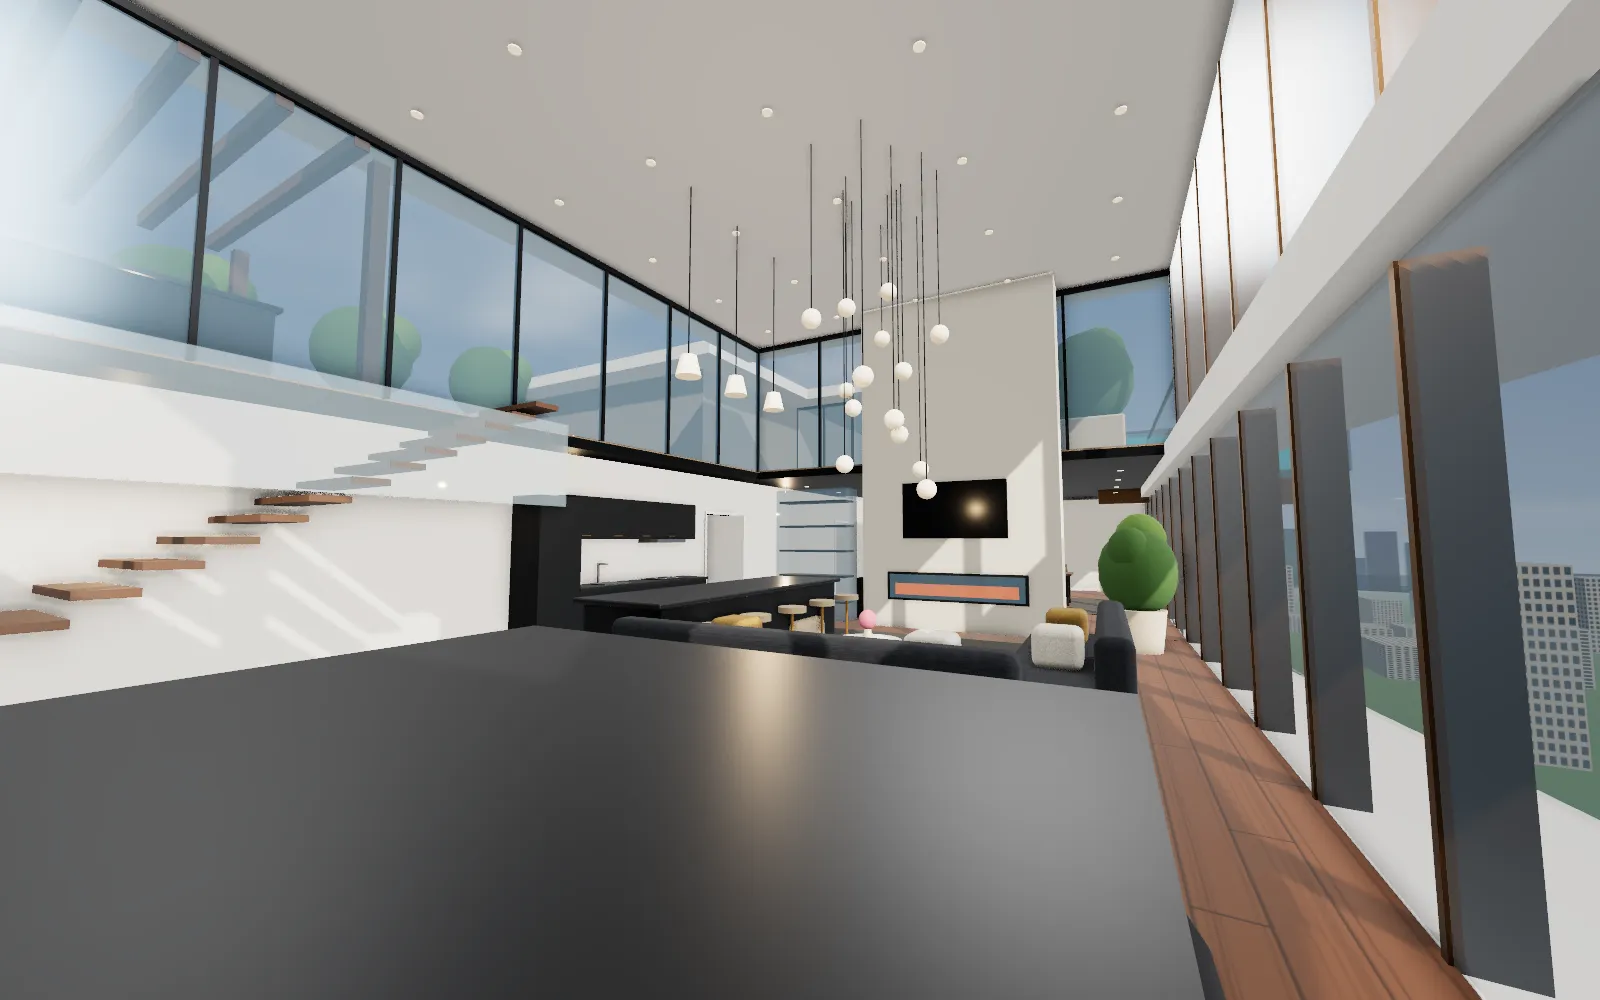
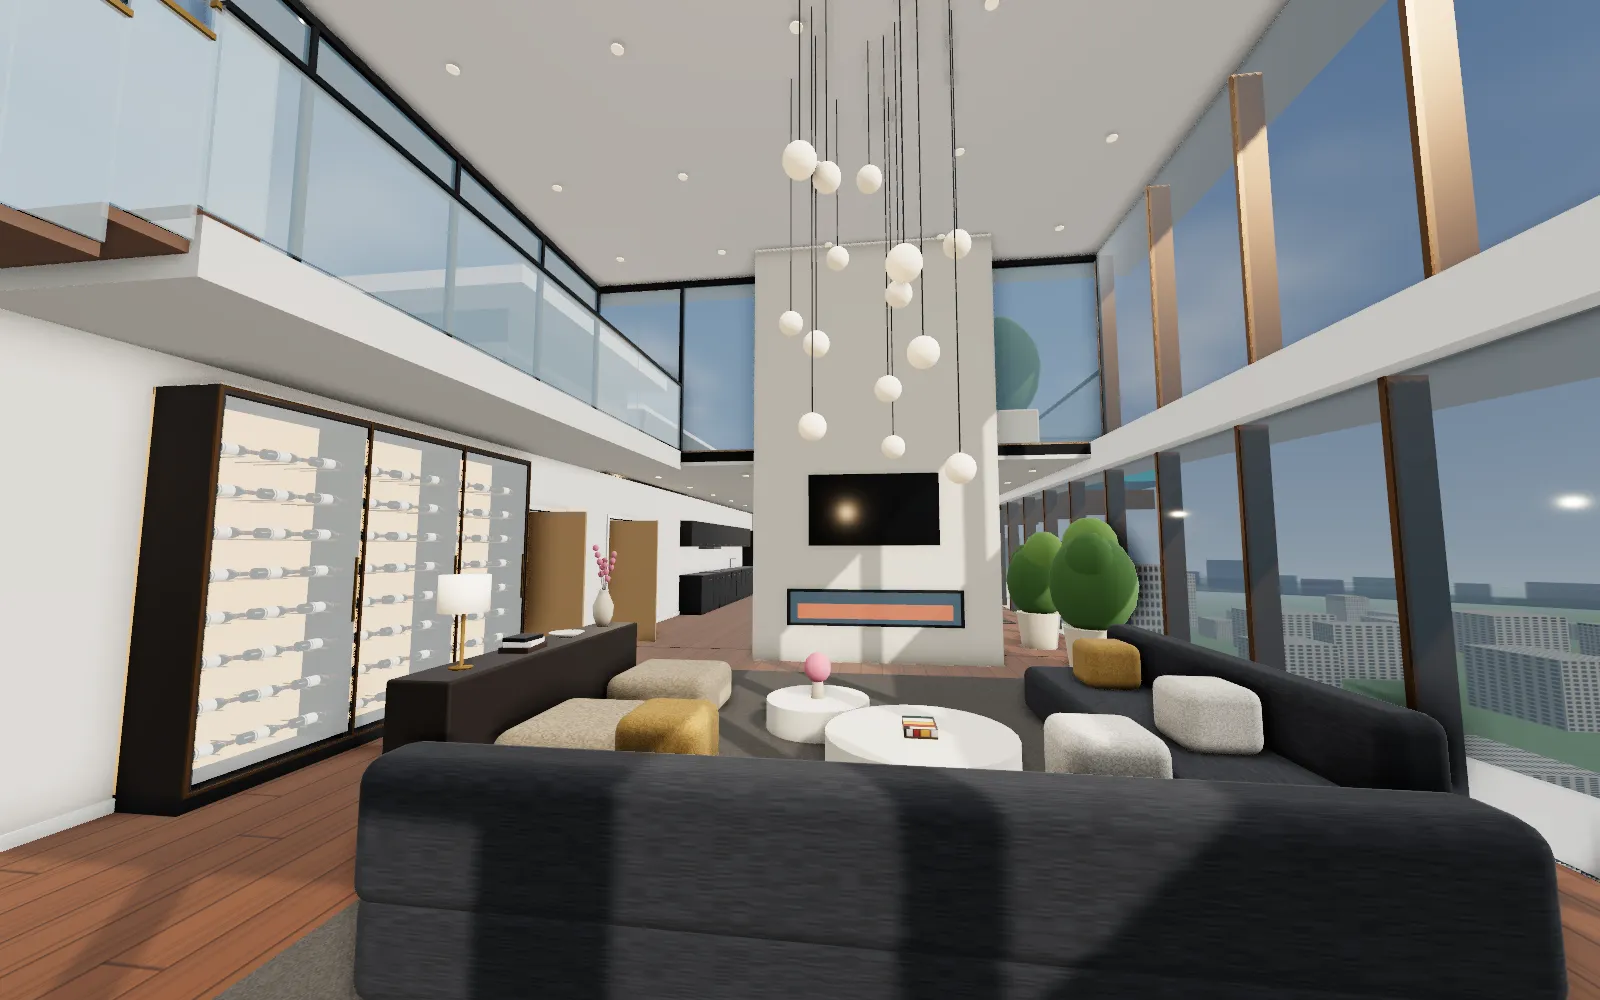
Build 20: detail pass. Bedrooms get wardrobes, dressers and chairs; principal bathroom and main bedroom furnished properly; mats and towels in bathrooms; runners and pendants in halls and corridors; lift doors on the core; lobby seating group; penthouse page pictures re-rendered
Claude-Session: https://claude.ai/code/session_01BZrB8U47Xex47gJNQ3AVwN

diff --git a/3d/engine.js b/3d/engine.js
@@ -239,7 +239,7 @@ function makeMaterials() {
     render: S('#f0ece3', { roughness: .95 }), clad: S('#fff', { map: T.clad, uv: 1.4, roughness: .8 }), plinth: S('#3a3b3d', { roughness: .9 }), stone: S('#d9d2c3'),
     spandrel: S('#22262b', { roughness: .4, metalness: .5 }), bronze: S('#7a5a3a', { roughness: .35, metalness: .85 }), brass: S('#b08a4a', { roughness: .3, metalness: .9 }),
     frame: S('#1d1f22', { roughness: .45, metalness: .6 }), door: S('#2b4a41', { roughness: .5 }), doorInt: S('#a9865c', { roughness: .5 }), rail: S('#1f2123', { roughness: .4, metalness: .7 }),
-    wood: S('#fff', { map: T.oak, uv: 2.2, roughness: .55 }), tile: S('#fff', { map: T.tile, uv: 2.4, roughness: .3 }), carpet: S('#c9bfae', { roughness: 1 }), corridor: S('#77726a', { roughness: .85 }),
+    wood: S('#fff', { map: T.oak, uv: 2.2, roughness: .55 }), tile: S('#e6dfd3', { map: T.tile, uv: 2.4, roughness: .3 }), carpet: S('#c9bfae', { roughness: 1 }), corridor: S('#77726a', { roughness: .85 }),
     lobbyFloor: S('#fff', { map: T.lobby, uv: 2.4, roughness: .2 }), deck: S('#fff', { map: T.deck, uv: 1.4, roughness: .8 }),
     sofa: S('#6a715a', { roughness: 1 }), fabric: S('#d6c9b3', { roughness: 1 }), linen: S('#f1ede5', { roughness: 1 }), throw_: S('#b57f63', { roughness: 1 }), curtain: S('#e4ddd0', { roughness: 1 }),
     darkWood: S('#4d3b2d', { roughness: .55 }), oak: S('#b99468', { roughness: .55 }), white: S('#f4f2ed', { roughness: .35 }), black: S('#1c1d1f', { roughness: .4 }),
@@ -455,6 +455,15 @@ function innerFloor(B, fl, segs, data, fi) {
     const fin = q.type === 'bath' || q.type === 'utility' ? 'tile' : q.type === 'bed' ? 'carpet' : q.type === 'corridor' ? 'corridor' : q.type === 'lobby' ? 'lobbyFloor' : 'wood';
     B.box(fin, q.w - .02, .02, q.d - .02, q.x + q.w / 2, .01, q.z + q.d / 2);
   });
+  // lift doors on the core, facing the shared corridor, the lobby or (in a whole-floor home) the gallery
+  { const core = fl.rooms.find(r => r.type === 'core'), near = (a, b) => Math.abs(a - b) < .05;
+    if (core && !house) for (const t of ['corridor', 'lobby', 'hall']) {
+      const q = fl.rooms.find(r => r.type === t && ((near(r.z, core.z + core.d) || near(r.z + r.d, core.z)) && Math.min(r.x + r.w, core.x + core.w) - Math.max(r.x, core.x) > 2.6));
+      if (!q) continue;
+      const south = near(q.z, core.z + core.d), zw = south ? core.z + core.d : core.z, g = south ? 1 : -1, cx = (Math.max(q.x, core.x) + Math.min(q.x + q.w, core.x + core.w)) / 2;
+      [-.75, .75].forEach(o => { B.box('black', 1.16, 2.24, .05, cx + o, 1.12, zw + g * .05); B.box('metal', .5, 2.12, .03, cx + o - .255, 1.06, zw + g * .085); B.box('metal', .5, 2.12, .03, cx + o + .255, 1.06, zw + g * .085); B.box('led', .3, .05, .02, cx + o, 2.33, zw + g * .05); });
+      B.box('brass', .09, .22, .02, cx, 1.15, zw + g * .05);
+      break; } }
   // doors standing open in their doorways
   segs.forEach(s => {
     if (s.kind !== 'door' || s.b - s.a < 1.3) return;
@@ -646,22 +655,38 @@ function furnish(q, B, rooms, o) {
       [-1, 1].forEach(g => { if (U > bw + 1.3) { const su = bu + g * (bw / 2 + .36); rbox('oak', .46, .5, .4, su, .25, V - .27, .02); cyl('brass', .07, .02, su, .51, V - .27); box('brass', .015, .26, .015, su, .64, V - .27); cyl('lampShade', .12, .16, su, .82, V - .27, .08); } });
       rbox('rug2', bw + 1, .012, 1.5, bu, .006, bv - bl / 2 + .1, .005); artBack(bu, 1.2, .6, x * 3 + fi);
       if (V > 4.2 && U > 2.9) { const wl = Math.min(2, V - 2.9); box('white', .58, 2.25, wl, .31, 1.125, .5 + wl / 2); for (let k = 1; k < wl / .5 - .5; k++) box('black', .004, 2.2, .006, .602, 1.125, .5 + k * .5); box('brass', .014, .3, .014, .615, 1.1, .5 + wl / 2 - .06); box('brass', .014, .3, .014, .615, 1.1, .5 + wl / 2 + .06); }
+      else if (V > 3.5 && U > 2.9) { const wl = Math.min(1.5, V - 2.75); box('white', .58, 2.25, wl, .31, 1.125, .45 + wl / 2); box('black', .004, 2.2, .006, .602, 1.125, .45 + wl / 2); box('brass', .014, .3, .014, .615, 1.1, .45 + wl / 2 - .06); box('brass', .014, .3, .014, .615, 1.1, .45 + wl / 2 + .06); }
+      // the other side wall: a low dresser with a mirror and flowers
+      if (U > 3.4 && V > 3.9) { const dl = Math.min(1.3, V - 2.9), dv = .55 + dl / 2; rbox('oak', .45, .78, dl, U - .26, .39, dv, .02); box('brass', .01, .02, dl - .2, U - .49, .55, dv); box('mirror', .02, .7, dl * .6, U - .04, 1.45, dv); cyl('pot', .07, .18, U - .26, .87, dv - dl * .25, .05); ball('flower', .1, U - .26, 1.04, dv - dl * .25, 1.1); box('books', .2, .05, .26, U - .26, .805, dv + dl * .25); }
+      // a reading chair by the window in a wider room
+      if (U > 4.3 && !(U > 6 && V > 6)) { rbox('fabric', .75, .4, .75, U - 1.35, .22, 1.05, .12); rbox('fabric', .75, .5, .18, U - 1.35, .6, .72, .08); cyl('oak', .2, .5, U - 2.05, .25, .95); cyl('brass', .012, 1.45, U - .75, .725, .6); cyl('lampShade', .14, .2, U - .75, 1.5, .6, .09); }
       if (V > 4.4) rbox('fabric', bw * .8, .42, .4, bu, .22, bv - bl / 2 - .32, .06);
-      if (U > 6 && V > 6) { rbox('fabric', .9, .42, .9, 1.4, .23, 1.5, .14); rbox('fabric', .9, .5, .2, 1.4, .58, 1.1, .08); rbox('fabric', .9, .42, .9, 3.0, .23, 1.5, .14); rbox('fabric', .9, .5, .2, 3.0, .58, 1.1, .08); cyl('stone', .32, .5, 2.2, .25, 1.6); plant(U - .7, .7, 1.4); }
+      if (U > 6 && V > 6) { rbox('darkWood', 4.8, 1.7, .06, bu, 1.0, V - .04, .01); box('led', 4.8, .02, .02, bu, 1.87, V - .06); rbox('rug', 4.8, .012, 3.6, bu, .004, bv - .9, .005); plant(bu - 3.0, V - .6, 1.5); plant(bu + 3.0, V - .6, 1.5);
+        rbox('fabric', .9, .42, .9, 1.4, .23, 1.5, .14); rbox('fabric', .9, .5, .2, 1.4, .58, 1.1, .08); rbox('fabric', .9, .42, .9, 3.0, .23, 1.5, .14); rbox('fabric', .9, .5, .2, 3.0, .58, 1.1, .08); cyl('stone', .32, .5, 2.2, .25, 1.6); plant(U - .7, .7, 1.4); rbox('rug', 3.4, .012, 2.4, 2.2, .006, 1.55, .005); cyl('brass', .012, 1.5, .7, .75, .75); cyl('lampShade', .15, .22, .7, 1.55, .75, .1);
+        rbox('oak', .5, .76, 1.8, U - .3, .38, V / 2 - .4, .02); box('mirror', .02, .9, 1.1, U - .04, 1.5, V / 2 - .4); rbox('fabric', .45, .44, .45, U - .95, .22, V / 2 - .4, .1); cyl('pot', .08, .2, U - .3, .86, V / 2 - 1.05, .05); ball('flower', .12, U - .3, 1.05, V / 2 - 1.05, 1.1); }
       curtains();
       return;
     }
     case 'bath': {
+      if (U * V > 14) {          // a principal bathroom: tub by the window on a stone plinth, double vanity on the back wall, walk-in shower at one end
+        rbox('stone', 2.4, .06, 1.35, U / 2, .03, 1.15, .02); rbox('white', 1.8, .58, .85, U / 2, .35, 1.15, .3); cyl('brass', .02, .95, U / 2 + 1.05, .475, 1.15); rbox('oak', .4, .45, .4, U / 2 - 1.45, .23, 1.15, .04); rbox('linen', .32, .08, .3, U / 2 - 1.45, .5, 1.15, .02);
+        const vl = Math.min(2.6, U - 2.4); rbox('oak', vl, .5, .5, U / 2, .55, V - .28, .02); rbox('stone', vl + .04, .06, .52, U / 2, .83, V - .28, .02);
+        [-1, 1].forEach(g => { rbox('white', .5, .05, .34, U / 2 + g * vl / 4, .875, V - .28, .04); cyl('brass', .014, .2, U / 2 + g * vl / 4, .96, V - .1); box('mirror', .8, 1.0, .02, U / 2 + g * vl / 4, 1.6, V - .03); });
+        box('glass', .02, 2.1, 1.5, 1.4, 1.05, V - .8); box('stone', 1.3, .04, 1.5, .7, .03, V - .8); box('metal', .25, .02, .25, .7, Hc - .12, V - .8);
+        rbox('white', .38, .4, .58, U - .3, .2, V - 1.7, .08); rbox('rug2', 1.8, .012, .7, U / 2, .006, V - .95, .005); plant(U - .5, .6, 1.0); box('metal', .02, .02, .6, U - .05, 1.1, 2.0); rbox('throw_', .03, .55, .5, U - .07, .85, 2.0, .01);
+        return;
+      }
       if (U * V < 5.6) {          // a shower room: everything along the wall opposite the door
         box('glass', .02, 2, .9, .96, 1, V - .47); box('white', .9, .05, .9, .5, .03, V - .47); box('metal', .22, .02, .22, .5, Hc - .12, V - .5);
         if (U > 2.1) { rbox('oak', .6, .5, .42, U / 2 + .22, .5, V - .24, .02); rbox('white', .64, .06, .44, U / 2 + .22, .78, V - .24, .02); box('mirror', .56, .8, .02, U / 2 + .22, 1.45, V - .03); }
-        rbox('white', .38, .4, .56, U - .28, .2, V - .32, .08);
+        rbox('white', .38, .4, .56, U - .28, .2, V - .32, .08); if (U > 1.6 && V > 1.9) rbox('rug2', Math.min(.8, U - .8), .012, .5, U / 2, .006, V - 1.3, .005);
         return;
       }
       if (U >= 1.75 && V >= 1.9) { rbox('white', Math.min(1.7, U - .12), .56, .76, Math.min(1.7, U - .12) / 2 + .06, .29, V - .42, .12); box('metal', .03, .3, .03, .25, .72, V - .42); }
       else if (V > 1.6) { box('glass', .9, 2, .02, U / 2, 1, V - .95); box('metal', .25, .02, .25, U / 2, Hc - .1, V - .45); }
       rbox('oak', Math.min(.8, U - .3), .5, .44, U - .46, .5, .26, .02); rbox('white', Math.min(.84, U - .26), .06, .46, U - .46, .78, .26, .02); box('mirror', Math.min(.7, U - .4), .8, .02, U - .46, 1.45, .03); cyl('metal', .014, .16, U - .46, .9, .12); box('metal', .016, .016, .12, U - .46, .97, .18); box('metal', .5, .02, .02, Math.max(.4, U * .28), 1.2, .05); rbox('linen', .44, .5, .03, Math.max(.4, U * .28), .96, .07, .01);
       if (U > 1.5) rbox('white', .38, .4, .58, Math.max(.3, U * .28), .2, .36, .08);
+      if (V > 2.2) { rbox('rug2', .8, .012, .5, U - .46, .006, .82, .005); rbox('throw_', .44, .2, .03, Math.max(.4, U * .28), 1.08, .075, .01); }
       return;
     }
     case 'study': {
@@ -678,6 +703,10 @@ function furnish(q, B, rooms, o) {
         box('glassRail', .02, 1.0, n * run, sx - .46, Hc * .62, V - .5 - (n - 1) * run / 2);
         rbox('oak', .34, .8, 1.0, .2, .4, 1.5, .02); box('mirror', .02, .9, .7, .03, 1.5, 1.5); plant(.35, 2.5, .8); rbox('rug', 1.0, .012, 2.0, .9, .006, 1.7, .005);
       } else if (U > 1.5 && V > 1.5) { rbox('oak', Math.min(.9, U - .5), .8, .32, U / 2, .4, V - .18, .02); box('mirror', Math.min(.7, U - .6), .8, .02, U / 2, 1.5, V - .02); }
+      // a long hall gets a runner and a line of pendants
+      if (!(house && fi === 0) && Math.max(U, V) > 5 && Math.min(U, V) > 1.2) { const lu = U >= V, L = lu ? U : V, Wd = lu ? V : U, rw = Math.min(1.2, Wd - .7);
+        if (lu) rbox('rug', L - 1.4, .012, rw, U / 2, .006, V / 2, .005); else rbox('rug', rw, .012, L - 1.4, U / 2, .006, V / 2, .005);
+        for (let k = 0, n = Math.max(2, Math.round(L / 3.2)); k < n; k++) { const t = (k + .5) / n * L; pendant(lu ? t : U / 2, lu ? V / 2 : t, .35, .12); } }
       return;
     }
     case 'balcony': case 'terrace': {
@@ -689,12 +718,15 @@ function furnish(q, B, rooms, o) {
     case 'lobby': {
       if (w * d > 60) {
         rbox('oak', 3.2, 1.05, .8, U / 2, .53, V * .32, .04); rbox('worktop', 3.3, .05, .9, U / 2, 1.08, V * .32, .02);
-        rbox('rug', 4.4, .012, 3.4, U / 2, .006, V * .7, .005); sofa(0, V * .7, 2.4); sofa(1, V * .7, 2.4); cyl('oak', .6, .05, U / 2, .38, V * .7); cyl('black', .04, .36, U / 2, .18, V * .7);
+        rbox('rug', 5.4, .012, 4.2, U / 2, .006, V * .7, .005); cyl('stone', .7, .34, U / 2, .17, V * .7); cyl('stone', .4, .28, U / 2 + .95, .14, V * .7 + .35); box('books', .32, .05, .24, U / 2 - .1, .365, V * .7); cyl('pot', .07, .2, U / 2 + .25, .44, V * .7 - .15, .05); ball('flower', .13, U / 2 + .25, .63, V * .7 - .15, 1.1);
+        [-1, 1].forEach(g => { const sv = V * .7 + g * 1.5; rbox('sofa', 2.6, .42, .95, U / 2, .23, sv, .1); rbox('sofa', 2.6, .5, .26, U / 2, .6, sv + g * .4, .09); rbox('linen', .42, .36, .42, U / 2 - .8, .62, sv + g * .1, .08); rbox('throw_', .42, .36, .42, U / 2 + .8, .62, sv + g * .1, .08);
+          const cu = U / 2 + g * 2.25; rbox('fabric', .85, .42, .85, cu, .23, V * .7, .12); rbox('fabric', .2, .5, .85, cu + g * .34, .6, V * .7, .08); });
+        cyl('lampShade', .13, .3, U / 2 - 1.2, 1.25, V * .32, .1); cyl('brass', .02, .12, U / 2 - 1.2, 1.14, V * .32);
         plant(1.4, 1, 1.5); plant(U - 1.4, 1, 1.5); plant(1.2, V - 1, 1.3); [-.6, 0, .6].forEach((o2, i) => pendant(U / 2 + o2 * 1.4, V * .32, .7 + (i % 2) * .3, .2));
       } else { rbox('metal', 1.6, .9, .5, U / 2, .45, V - .3, .03); plant(.7, .7, 1.3); pendant(U / 2, V / 2, .7, .22); }
       return;
     }
-    case 'corridor': { rbox('rug', U - .6, .012, V - .7, U / 2, .006, V / 2, .005); return; }
+    case 'corridor': { rbox('rug', U - .6, .012, V - .7, U / 2, .006, V / 2, .005); { const lu = U >= V, L = lu ? U : V; for (let k = 0, n = Math.max(2, Math.round(L / 3.5)); k < n; k++) { const t = (k + .5) / n * L; pendant(lu ? t : U / 2, lu ? V / 2 : t, .3, .13); } if (lu) { plant(.55, V / 2, 1.1); plant(U - .55, V / 2, 1.1); } else { plant(U / 2, .55, 1.1); plant(U / 2, V - .55, 1.1); } } return; }
   }
 }
 

diff --git a/offplan/dev.js b/offplan/dev.js
@@ -1,6 +1,6 @@
 // Off-plan development page. One template for any development: a tower, a block of flats or a single house.
 // Plans and homes come from /3d/buildings.js, words and pictures from content.js, and the 3D model opens on tap.
-import * as BUILD from '/3d/buildings.js?v=19';
+import * as BUILD from '/3d/buildings.js?v=20';
 import { CONTENT } from './content.js?v=8';
 
 const OUT = new Set(['balcony', 'terrace']), SHARED = new Set(['corridor', 'lobby', 'core']);
@@ -29,7 +29,7 @@ export function mount(key) {
       <iframe class="story-frame" title="${esc(D.name)} being built as you scroll" tabindex="-1" aria-hidden="true"></iframe>
       <div class="story-shade"></div>
       <div class="story-mist" data-mist></div>
-      <div class="cap cap-title" data-cap="-1,.08"><p class="kicker">${esc(D.place)}</p><h1>${esc(D.name)}</h1><p class="cue">Scroll <span class="build">build 19</span></p></div>
+      <div class="cap cap-title" data-cap="-1,.08"><p class="kicker">${esc(D.place)}</p><h1>${esc(D.name)}</h1><p class="cue">Scroll <span class="build">build 20</span></p></div>
       <div class="cap cap-rise" data-cap=".13,.4"><p class="rise" data-rise></p><dl class="numbers">${C.numbers.slice(0, 3).map(([n, l]) => `<div><dt>${esc(l)}</dt><dd>${esc(n)}</dd></div>`).join('')}</dl></div>
       <div class="cap cap-line" data-cap=".44,.57"><p>${esc(C.tagline)}</p></div>
       <div class="cap cap-line" data-cap=".61,.74"><p class="kicker">${esc(C.film[0])}</p><p>${esc(C.film[1])}</p></div>

diff --git a/3d/tower/index.html b/3d/tower/index.html
@@ -10,7 +10,7 @@
 <link rel="icon" href="/favicon.svg" type="image/svg+xml">
 <link rel="preconnect" href="https://fonts.gstatic.com" crossorigin>
 <link rel="stylesheet" href="https://fonts.googleapis.com/css2?family=Cormorant+Garamond:wght@400;500;600&amp;family=Schibsted+Grotesk:wght@400;500;600&amp;display=swap">
-<link rel="stylesheet" href="/3d/viewer.css?v=19">
+<link rel="stylesheet" href="/3d/viewer.css?v=20">
 <script type="importmap">{"imports":{"three":"/3d/lib/three.module.js"}}</script>
 </head>
 <body>
@@ -72,12 +72,12 @@
   <div class="nogl" data-nogl><p>This demo needs WebGL, which this browser has switched off.</p></div>
 </main>
 <script type="module">
-import { run, loadProps } from '/3d/engine.js?v=19';
-import { tower } from '/3d/buildings.js?v=19';
+import { run, loadProps } from '/3d/engine.js?v=20';
+import { tower } from '/3d/buildings.js?v=20';
 const root = document.getElementById('rv'), q = new URLSearchParams(location.search);
 if (q.has('embed')) root.classList.add('embed');
 try {
-  const data = tower(); if (data.props) await loadProps(data.props + '?v=19');
+  const data = tower(); if (data.props) await loadProps(data.props + '?v=20');
   run(data, root);
   // deep links from the development site: ?unit=12.03 opens that home, ?floor=12 opens a floor, &walk=1 steps inside
   const want = q.get('unit') || q.get('floor') || q.get('time') || q.get('walk');

diff --git a/3d/block/index.html b/3d/block/index.html
@@ -10,7 +10,7 @@
 <link rel="icon" href="/favicon.svg" type="image/svg+xml">
 <link rel="preconnect" href="https://fonts.gstatic.com" crossorigin>
 <link rel="stylesheet" href="https://fonts.googleapis.com/css2?family=Cormorant+Garamond:wght@400;500;600&amp;family=Schibsted+Grotesk:wght@400;500;600&amp;display=swap">
-<link rel="stylesheet" href="/3d/viewer.css?v=19">
+<link rel="stylesheet" href="/3d/viewer.css?v=20">
 <script type="importmap">{"imports":{"three":"/3d/lib/three.module.js"}}</script>
 </head>
 <body>
@@ -72,8 +72,8 @@
   <div class="nogl" data-nogl><p>This demo needs WebGL, which this browser has switched off.</p></div>
 </main>
 <script type="module">
-import { run } from '/3d/engine.js?v=19';
-import { block } from '/3d/buildings.js?v=19';
+import { run } from '/3d/engine.js?v=20';
+import { block } from '/3d/buildings.js?v=20';
 const root = document.getElementById('rv'), q = new URLSearchParams(location.search);
 if (q.has('embed')) root.classList.add('embed');
 try {

diff --git a/3d/house/index.html b/3d/house/index.html
@@ -10,7 +10,7 @@
 <link rel="icon" href="/favicon.svg" type="image/svg+xml">
 <link rel="preconnect" href="https://fonts.gstatic.com" crossorigin>
 <link rel="stylesheet" href="https://fonts.googleapis.com/css2?family=Cormorant+Garamond:wght@400;500;600&amp;family=Schibsted+Grotesk:wght@400;500;600&amp;display=swap">
-<link rel="stylesheet" href="/3d/viewer.css?v=19">
+<link rel="stylesheet" href="/3d/viewer.css?v=20">
 <script type="importmap">{"imports":{"three":"/3d/lib/three.module.js"}}</script>
 </head>
 <body>
@@ -72,8 +72,8 @@
   <div class="nogl" data-nogl><p>This demo needs WebGL, which this browser has switched off.</p></div>
 </main>
 <script type="module">
-import { run } from '/3d/engine.js?v=19';
-import { house } from '/3d/buildings.js?v=19';
+import { run } from '/3d/engine.js?v=20';
+import { house } from '/3d/buildings.js?v=20';
 const root = document.getElementById('rv'), q = new URLSearchParams(location.search);
 if (q.has('embed')) root.classList.add('embed');
 try {

diff --git a/offplan/ashcombe-house/index.html b/offplan/ashcombe-house/index.html
@@ -14,6 +14,6 @@
 <body>
 <main id="dev"></main>
 <noscript><p style="padding:40px">This page needs JavaScript to show the plans and the 3D model.</p></noscript>
-<script type="module">import { mount } from '/offplan/dev.js?v=19'; mount('house');</script>
+<script type="module">import { mount } from '/offplan/dev.js?v=20'; mount('house');</script>
 </body>
 </html>

diff --git a/offplan/halden-tower/index.html b/offplan/halden-tower/index.html
@@ -14,6 +14,6 @@
 <body>
 <main id="dev"></main>
 <noscript><p style="padding:40px">This page needs JavaScript to show the plans and the 3D model.</p></noscript>
-<script type="module">import { mount } from '/offplan/dev.js?v=19'; mount('tower');</script>
+<script type="module">import { mount } from '/offplan/dev.js?v=20'; mount('tower');</script>
 </body>
 </html>

diff --git a/offplan/wharf-row/index.html b/offplan/wharf-row/index.html
@@ -14,6 +14,6 @@
 <body>
 <main id="dev"></main>
 <noscript><p style="padding:40px">This page needs JavaScript to show the plans and the 3D model.</p></noscript>
-<script type="module">import { mount } from '/offplan/dev.js?v=19'; mount('block');</script>
+<script type="module">import { mount } from '/offplan/dev.js?v=20'; mount('block');</script>
 </body>
 </html>
